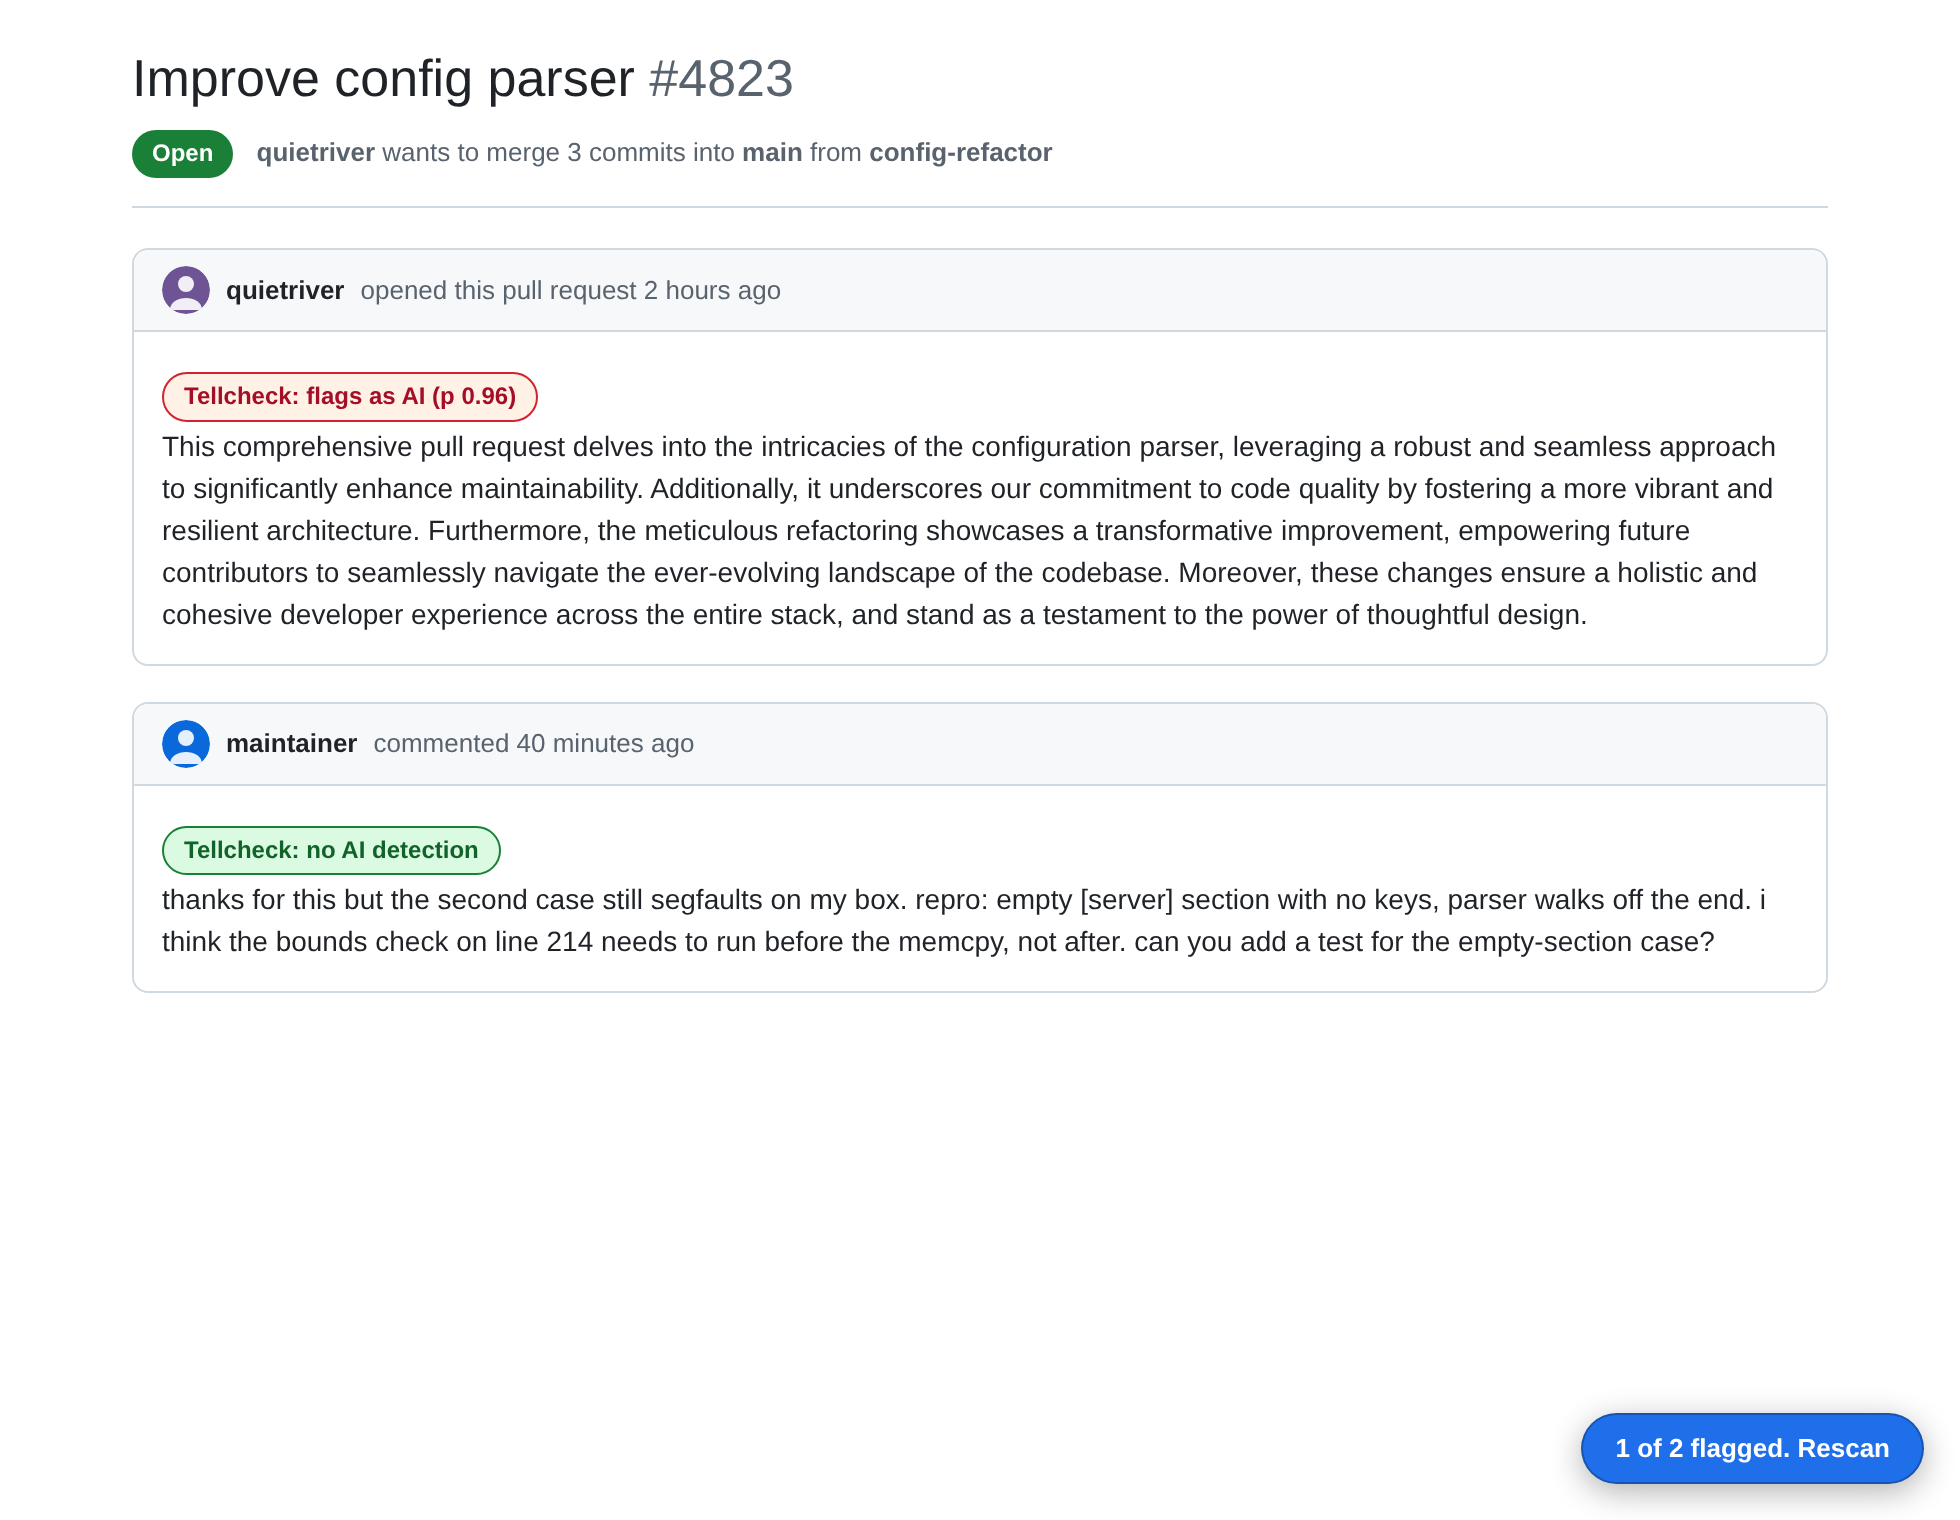
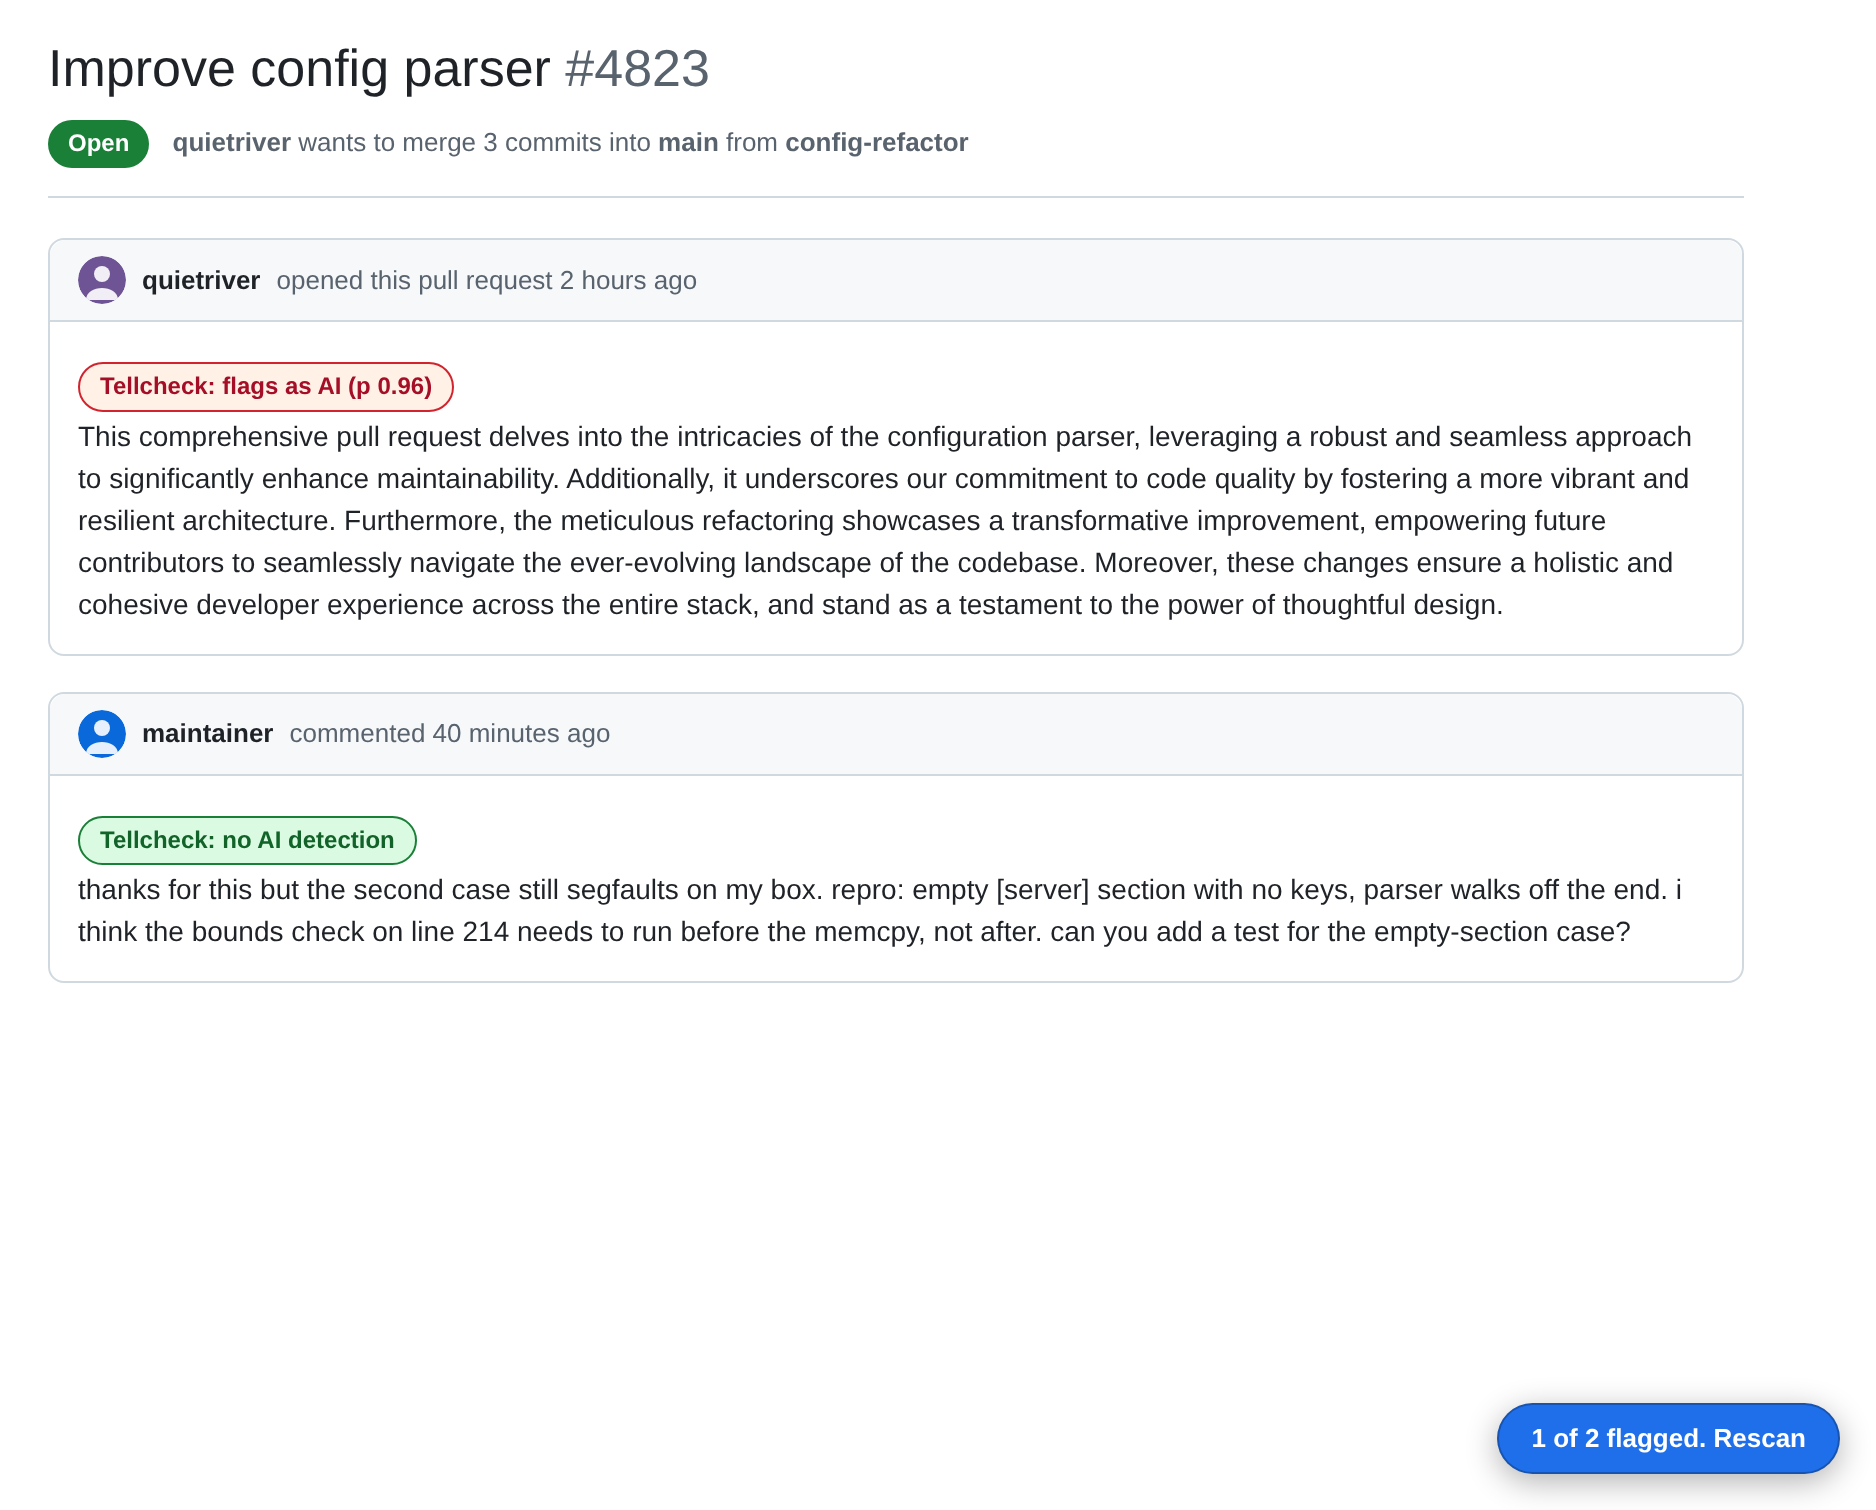
tools: autocrop screenshots, drop dead whitespace around content
The fab button is position:fixed to the viewport bottom, so a fixed
window height was dragging a big empty strip into every screenshot
(worst on the PR list shot). Crop each capture to its real content
bounding box plus a small pad instead. The three detail-page frames
share one crop box so the demo gif doesn't jump size mid-animation.
Regenerated all shots at 2x; removed the stale @1x copies now that the
tighter crop makes them unnecessary.

Changed region(s): [[0.0309, 0.1556, 0.9275, 0.6536], [0.0309, 0.0311, 0.5256, 0.1245], [0.7729, 0.9338, 0.9893, 0.996]]

diff --git a/tools/gen_screens.py b/tools/gen_screens.py
@@ -15,6 +15,8 @@ import pathlib
 import subprocess
 import threading
 
+from PIL import Image, ImageChops
+
 ROOT = pathlib.Path(__file__).resolve().parent.parent
 CONTENT_JS = (ROOT / "extension" / "content" / "github.js").read_text()
 CONTENT_CSS = (ROOT / "extension" / "content" / "github.css").read_text()
@@ -144,9 +146,38 @@ def list_fixture(dark):
 <button class="tellcheck-fab">2 flagged of 5. Rescan</button>
 </div></body></html>"""
 
-def shoot(html, out, path="/quietriver/config/pull/4823", w=980, h=760, wait=2500):
+def content_box(img, pad=48):
+    """Bounding box of the real content inside a screenshot, padded a bit.
+    Drops the empty chrome a fixed window size always leaves around
+    variable-height content, so the same badge/signal text reads bigger
+    once the image is squeezed into a phone-width <img>."""
+    bg = Image.new("RGB", img.size, img.getpixel((0, 0)))
+    diff = ImageChops.difference(img, bg)
+    bbox = diff.getbbox()
+    if not bbox:
+        return (0, 0, img.width, img.height)
+    left, top, right, bottom = bbox
+    left = max(0, left - pad)
+    top = max(0, top - pad)
+    right = min(img.width, right + pad)
+    bottom = min(img.height, bottom + pad)
+    return (left, top, right, bottom)
+
+
+def autocrop(path, box=None, pad=48):
+    """Crop a screenshot to its own content box, or to a caller-supplied box
+    (used to keep every frame of the demo gif aligned to one canvas)."""
+    img = Image.open(path).convert("RGB")
+    box = box or content_box(img, pad)
+    img.crop(box).save(path)
+    return box
+
+
+def shoot(html, out, path="/quietriver/config/pull/4823", w=980, h=760, wait=2500, crop_box=None):
     """Serve the fixture at a GitHub-shaped path so the content script's route
-    matcher fires, then screenshot it."""
+    matcher fires, then screenshot it, then crop the outer chrome away.
+    Returns the crop box actually used, so a caller can reuse it for a
+    matching frame."""
     body = html.encode()
 
     class H(http.server.BaseHTTPRequestHandler):
@@ -171,7 +202,11 @@ def shoot(html, out, path="/quietriver/config/pull/4823", w=980, h=760, wait=250
          f"http://127.0.0.1:{port}{path}"],
         capture_output=True, timeout=60)
     srv.shutdown()
-    print("wrote", pathlib.Path(out).relative_to(ROOT))
+    used_box = autocrop(out, box=crop_box)
+    with Image.open(out) as img:
+        size = img.size
+    print("wrote", pathlib.Path(out).relative_to(ROOT), size)
+    return used_box
 
 
 def make_gif():
@@ -202,12 +237,18 @@ def make_gif():
 
 
 def main():
-    shoot(detail_fixture(dark=False, open_panel=True), str(OUT / "detail-light.png"))
+    # detail-light is both the standalone hero shot and the tallest gif frame
+    # (panel open); reuse its crop box for the other two frames so the three
+    # line up on one canvas instead of jumping size mid-animation.
+    box = shoot(detail_fixture(dark=False, open_panel=True), str(OUT / "detail-light.png"))
     shoot(detail_fixture(dark=True, open_panel=True), str(OUT / "detail-dark.png"))
-    shoot(detail_fixture(dark=False, open_panel=False), str(OUT / "detail-badges.png"))
-    shoot(detail_fixture(dark=False, open_panel=False, do_scan=False), str(OUT / "detail-plain.png"))
-    shoot(list_fixture(dark=False), str(OUT / "list-light.png"), h=560)
-    shoot(list_fixture(dark=True), str(OUT / "list-dark.png"), h=560)
+    shoot(detail_fixture(dark=False, open_panel=False), str(OUT / "detail-badges.png"), crop_box=box)
+    shoot(detail_fixture(dark=False, open_panel=False, do_scan=False), str(OUT / "detail-plain.png"), crop_box=box)
+    # Window height close to the 5-row list's real content height. The fab
+    # button is position:fixed to the viewport bottom, so a tall window
+    # drags a huge dead strip of whitespace into the autocrop bbox.
+    shoot(list_fixture(dark=False), str(OUT / "list-light.png"), h=440)
+    shoot(list_fixture(dark=True), str(OUT / "list-dark.png"), h=440)
     make_gif()
 
 
